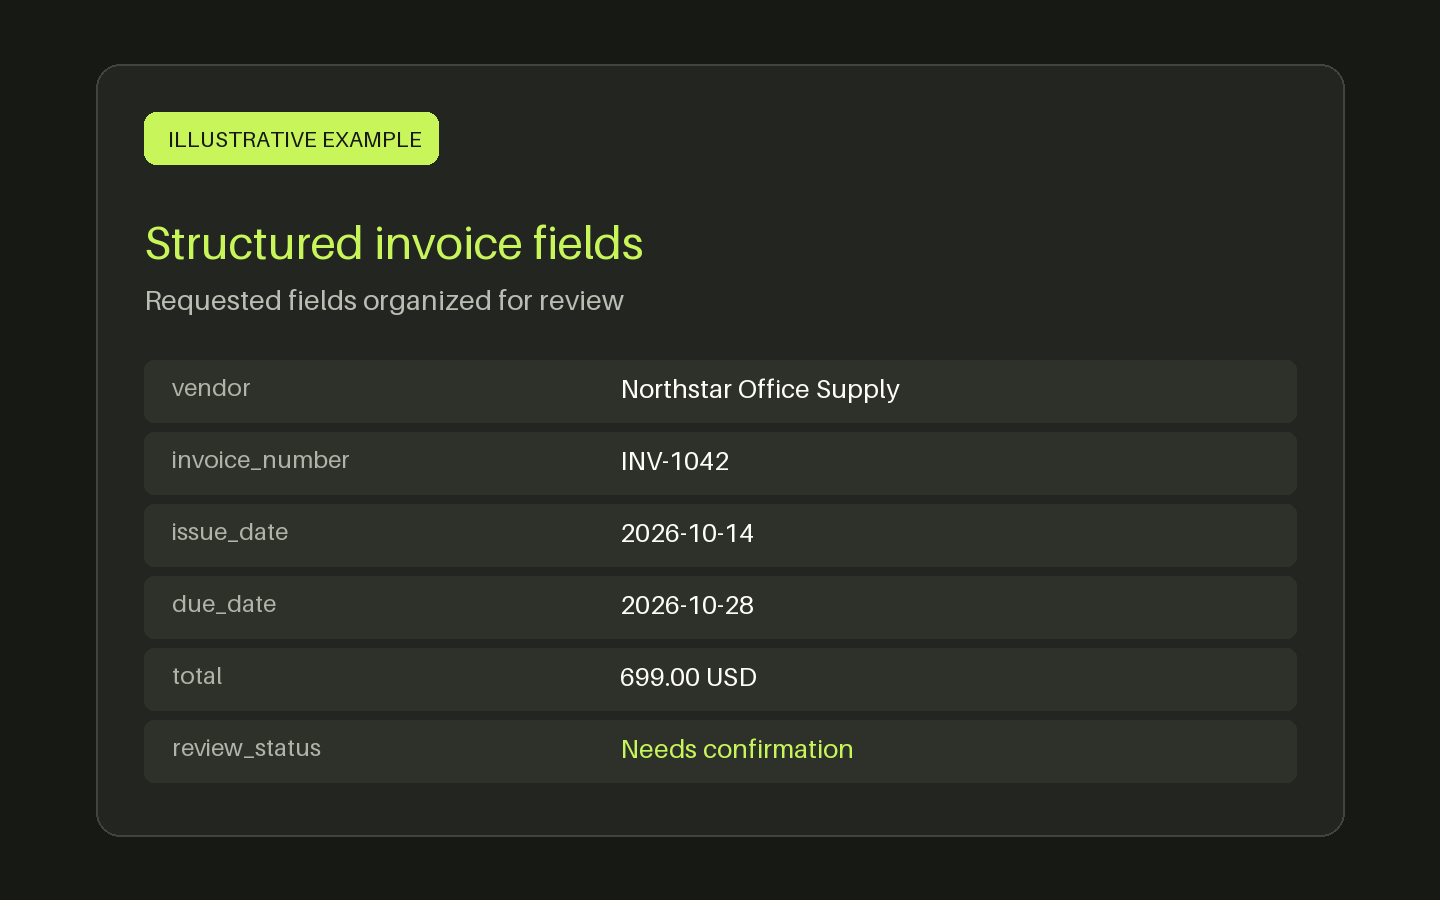
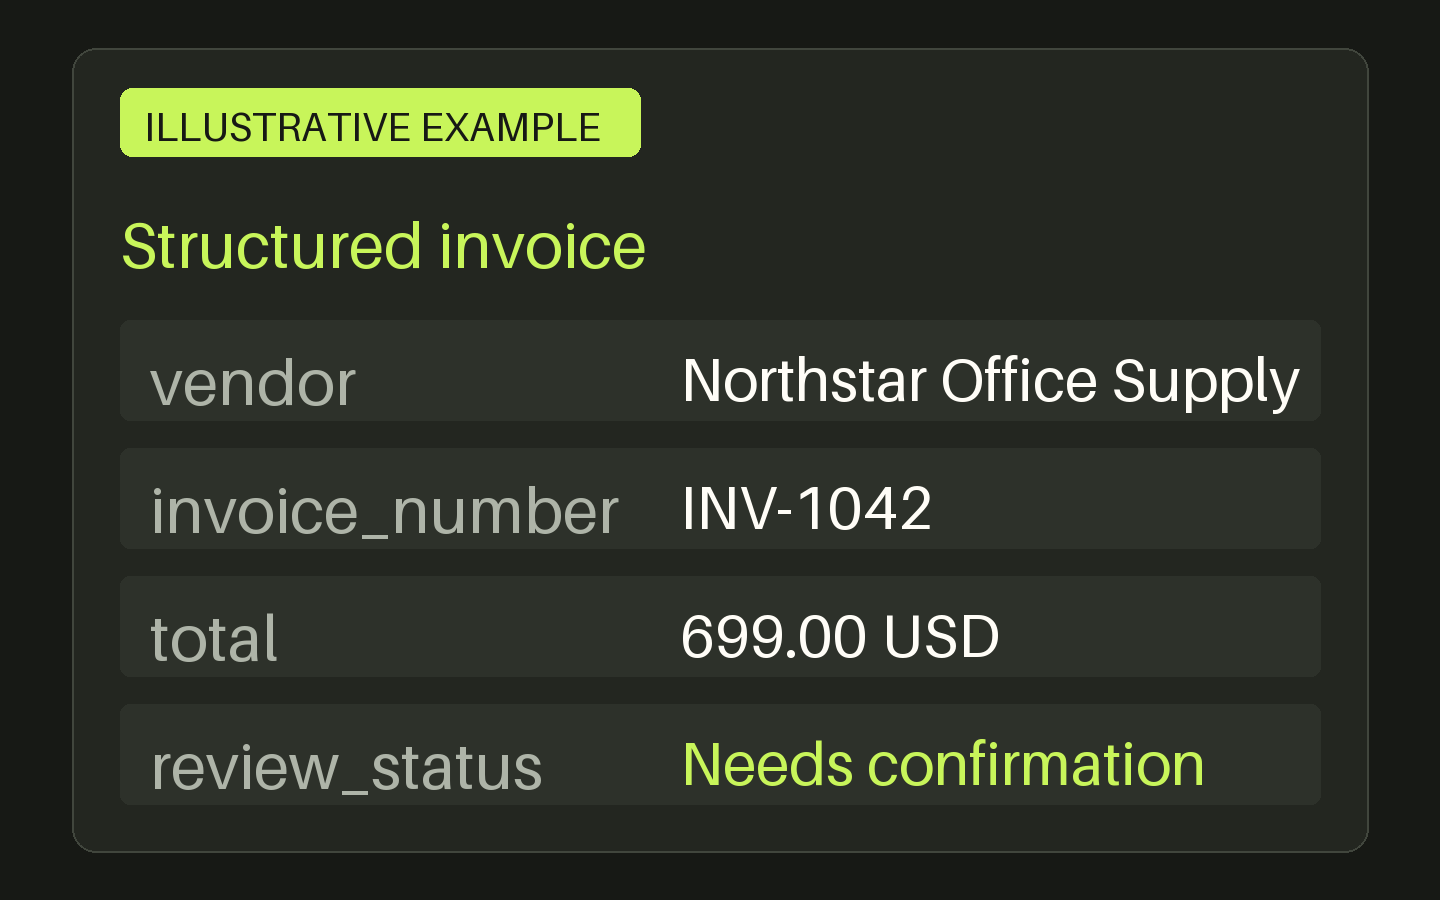
fix: improve OCR showcase artwork legibility

diff --git a/css/site.css b/css/site.css
@@ -168,7 +168,7 @@ ul, ol { margin: 0; padding: 0; }
 .ocr-review strong { display: block; margin-block: var(--space-3); font-family: var(--font-display); font-size: var(--text-xl); }
 .ocr-review p { color: var(--color-ink-soft); font-size: var(--text-sm); }
 .text-link { display: inline-flex; align-items: center; min-height: 44px; color: var(--color-accent); }
-@media (max-width: 767px) {
+@media (max-width: 1023px) {
   .ocr-flow { grid-template-columns: minmax(0, 1fr); gap: var(--space-5); }
   .ocr-review { text-align: left; }
   .ocr-review > span { transform: rotate(90deg); transform-origin: left center; width: var(--space-8); }

diff --git a/scripts/generate-ocr-artwork.py b/scripts/generate-ocr-artwork.py
@@ -10,13 +10,16 @@ PAPER = "#f4f1e8"
 MUTED = "#6b7067"
 LIME = "#c8f55a"
 WHITE = "#fffdf7"
+KEY_SIZE = 64
+DETAIL_SIZE = 60
+SAMPLE_SIZE = 40
 
 
 def font(size):
     return ImageFont.load_default(size=size)
 
 
-def label(draw, xy, text, fill=INK, size=28):
+def label(draw, xy, text, fill=INK, size=DETAIL_SIZE):
     draw.text(xy, text, font=font(size), fill=fill)
 
 
@@ -28,43 +31,32 @@ def save(image, name):
 def source_document():
     image = Image.new("RGB", (W, H), PAPER)
     draw = ImageDraw.Draw(image)
-    draw.rounded_rectangle((96, 64, 1344, 836), radius=24, fill=WHITE, outline="#d8d5cc", width=2)
-    draw.rounded_rectangle((144, 112, 356, 164), radius=12, fill=LIME)
-    label(draw, (168, 125), "SAMPLE INVOICE", size=24)
-    label(draw, (144, 214), "Northstar Office Supply", size=46)
-    label(draw, (144, 282), "Invoice  INV-1042", MUTED, 28)
-    label(draw, (930, 214), "Issued  14 Oct 2026", INK, 28)
-    label(draw, (930, 264), "Due     28 Oct 2026", INK, 28)
-    draw.line((144, 354, 1296, 354), fill="#c9c7bf", width=2)
-    label(draw, (144, 394), "DESCRIPTION", MUTED, 22)
-    label(draw, (1080, 394), "AMOUNT", MUTED, 22)
-    rows = [("Recycled copy paper · 12 cases", "$468.00"), ("Filing folders · 8 boxes", "$196.00"), ("Delivery", "$35.00")]
-    y = 458
-    for description, amount in rows:
-        label(draw, (144, y), description, INK, 28)
-        label(draw, (1080, y), amount, INK, 28)
-        y += 76
-    draw.line((144, 704, 1296, 704), fill="#c9c7bf", width=2)
-    label(draw, (920, 746), "TOTAL", MUTED, 24)
-    label(draw, (1080, 738), "$699.00", INK, 38)
+    draw.rounded_rectangle((72, 48, 1368, 852), radius=24, fill=WHITE, outline="#d8d5cc", width=2)
+    draw.rounded_rectangle((120, 88, 500, 156), radius=12, fill=LIME)
+    label(draw, (144, 102), "SAMPLE INVOICE", size=SAMPLE_SIZE)
+    label(draw, (120, 220), "Northstar Office Supply", size=KEY_SIZE)
+    draw.line((120, 340, 1320, 340), fill="#c9c7bf", width=2)
+    label(draw, (120, 430), "INVOICE NUMBER", MUTED, DETAIL_SIZE)
+    label(draw, (120, 535), "INV-1042", size=KEY_SIZE)
+    label(draw, (780, 430), "TOTAL", MUTED, DETAIL_SIZE)
+    label(draw, (780, 535), "$699.00 USD", size=KEY_SIZE)
     save(image, "source-document.png")
 
 
 def structured_output():
     image = Image.new("RGB", (W, H), CARBON)
     draw = ImageDraw.Draw(image)
-    draw.rounded_rectangle((96, 64, 1344, 836), radius=24, fill=INK, outline="#41463d", width=2)
-    draw.rounded_rectangle((144, 112, 438, 164), radius=12, fill=LIME)
-    label(draw, (168, 125), "ILLUSTRATIVE EXAMPLE", CARBON, 22)
-    label(draw, (144, 214), "Structured invoice fields", LIME, 46)
-    label(draw, (144, 282), "Requested fields organized for review", "#b9beb4", 28)
-    fields = [("vendor", "Northstar Office Supply"), ("invoice_number", "INV-1042"), ("issue_date", "2026-10-14"), ("due_date", "2026-10-28"), ("total", "699.00 USD"), ("review_status", "Needs confirmation")]
-    y = 372
+    draw.rounded_rectangle((72, 48, 1368, 852), radius=24, fill=INK, outline="#41463d", width=2)
+    draw.rounded_rectangle((120, 88, 640, 156), radius=12, fill=LIME)
+    label(draw, (144, 102), "ILLUSTRATIVE EXAMPLE", CARBON, SAMPLE_SIZE)
+    label(draw, (120, 205), "Structured invoice", LIME, size=KEY_SIZE)
+    fields = [("vendor", "Northstar Office Supply"), ("invoice_number", "INV-1042"), ("total", "699.00 USD"), ("review_status", "Needs confirmation")]
+    y = 320
     for key, value in fields:
-        draw.rounded_rectangle((144, y - 12, 1296, y + 50), radius=10, fill="#2d312a")
-        label(draw, (172, y), key, "#aeb4a8", 24)
-        label(draw, (620, y), value, WHITE if key != "review_status" else LIME, 26)
-        y += 72
+        draw.rounded_rectangle((120, y, 1320, y + 100), radius=10, fill="#2d312a")
+        label(draw, (150, y + 22), key, "#aeb4a8", size=KEY_SIZE)
+        label(draw, (680, y + 22), value, WHITE if key != "review_status" else LIME, DETAIL_SIZE)
+        y += 128
     save(image, "structured-output.png")
 
 
